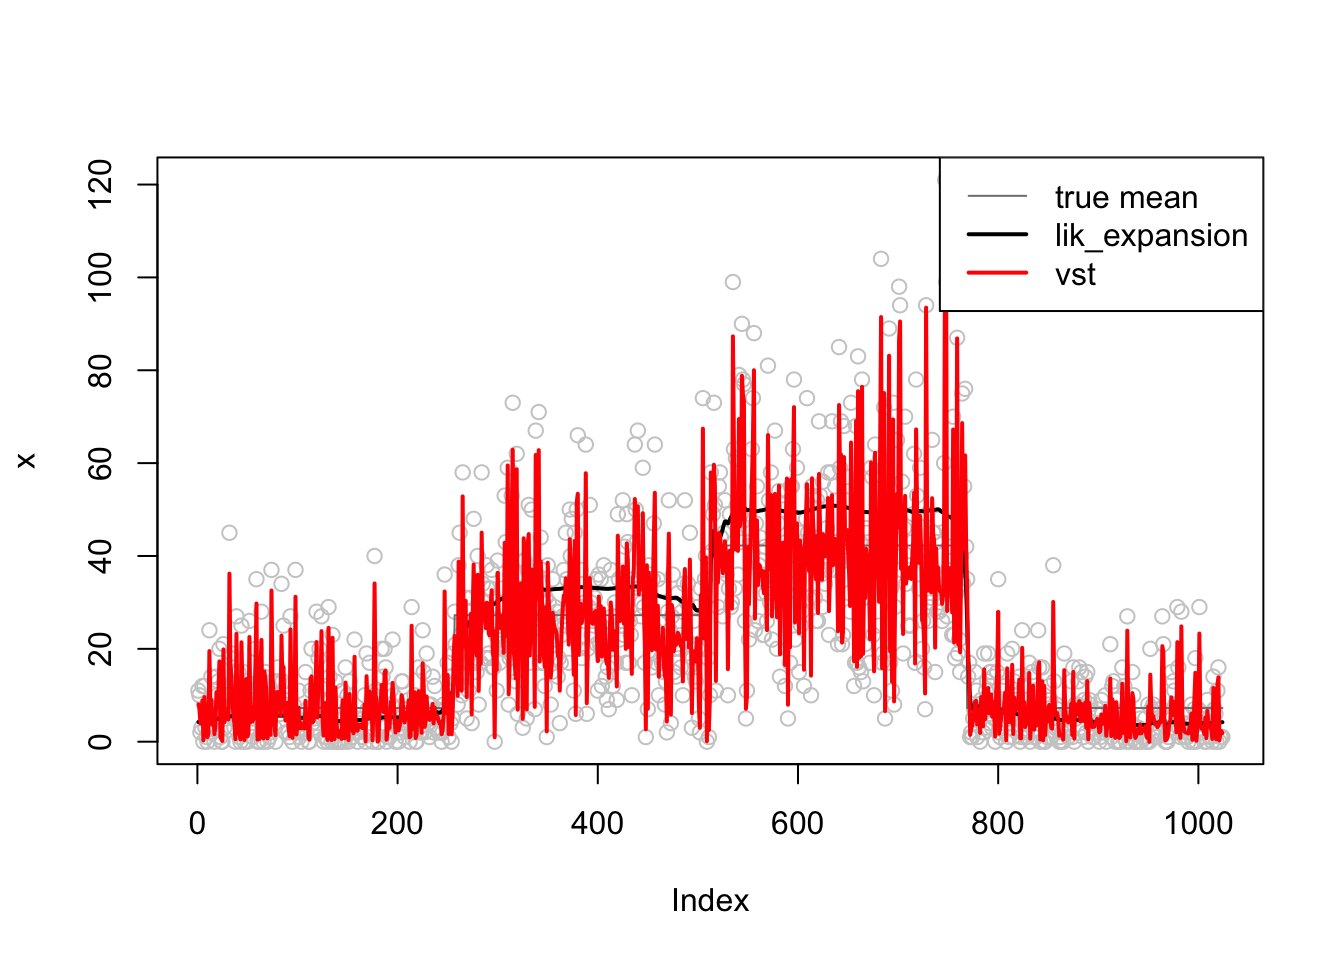
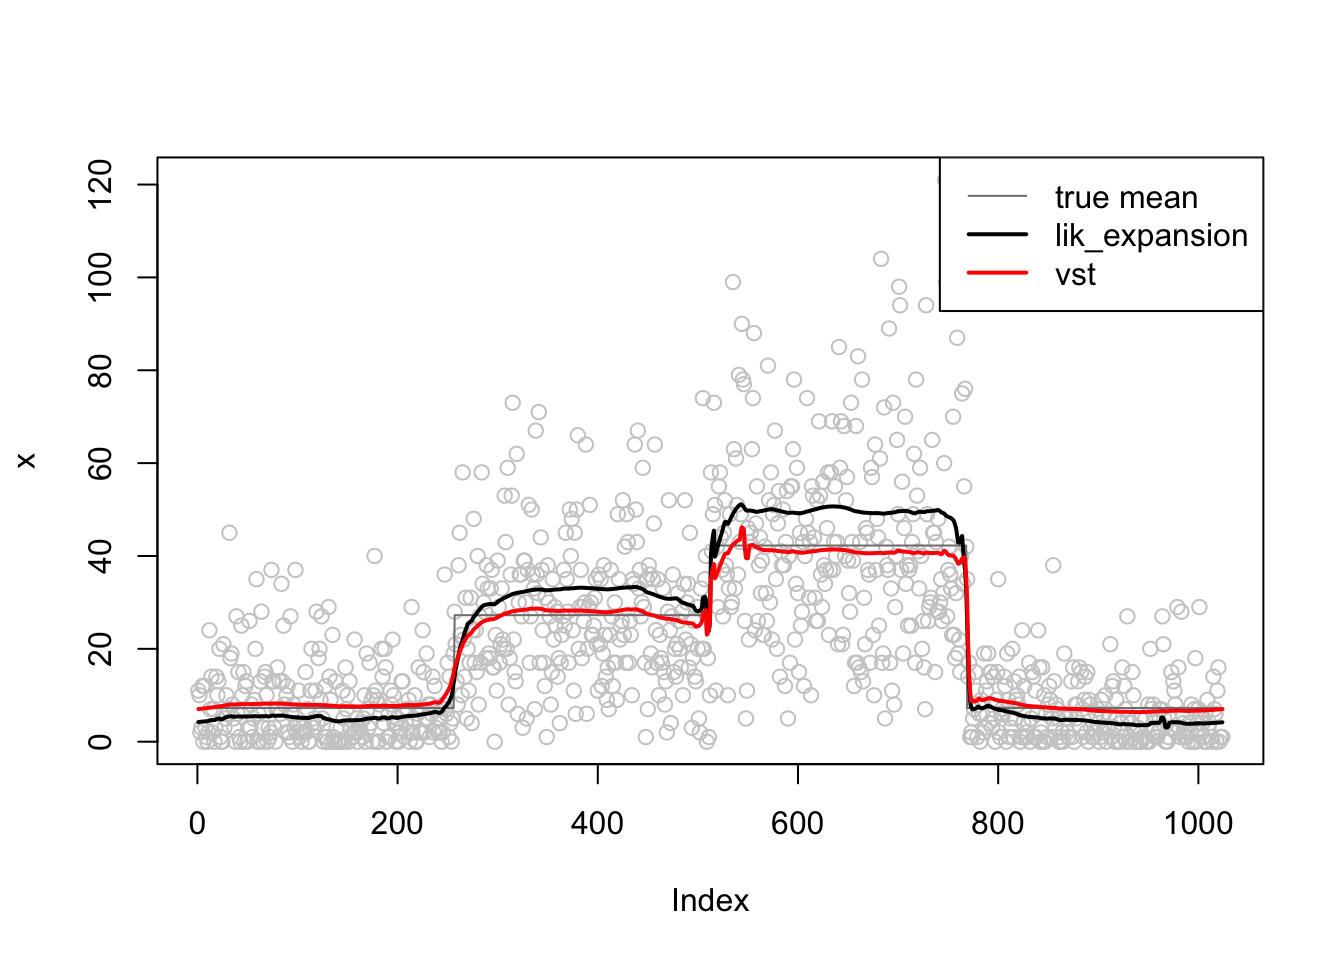
Build site.

Changed region(s): [[0.125, 0.3125, 0.9062, 0.7812]]

diff --git a/docs/vstlikcompare.html b/docs/vstlikcompare.html
@@ -496,10 +496,10 @@ This reproducible <a href="http://rmarkdown.rstudio.com">R Markdown</a> analysis
 <div class="panel panel-default">
 <div class="panel-heading">
 <p class="panel-title">
-<a data-toggle="collapse" data-parent="#workflowr-checks" href="#strongRepositoryversionstrongahrefhttpsgithubcomDongyueXiesmashgentree4b80ff5cdaa2fb20698c79cad4027dc802fa6c94targetblank4b80ff5a"> <span class="glyphicon glyphicon-ok text-success" aria-hidden="true"></span> <strong>Repository version:</strong> <a href="https://github.com/DongyueXie/smash-gen/tree/4b80ff5cdaa2fb20698c79cad4027dc802fa6c94" target="_blank">4b80ff5</a> </a>
+<a data-toggle="collapse" data-parent="#workflowr-checks" href="#strongRepositoryversionstrongahrefhttpsgithubcomDongyueXiesmashgentree419cb5de1e4e8c4bf174cf5ccdb47a82b5ceb030targetblank419cb5da"> <span class="glyphicon glyphicon-ok text-success" aria-hidden="true"></span> <strong>Repository version:</strong> <a href="https://github.com/DongyueXie/smash-gen/tree/419cb5de1e4e8c4bf174cf5ccdb47a82b5ceb030" target="_blank">419cb5d</a> </a>
 </p>
 </div>
[2 lines of base64/hex data omitted]
 <div class="panel-body">
 <p>
 Great! You are using Git for version control. Tracking code development and connecting the code version to the results is critical for reproducibility. The version displayed above was the version of the Git repository at the time these results were generated. <br><br> Note that you need to be careful to ensure that all relevant files for the analysis have been committed to Git prior to generating the results (you can use <code>wflow_publish</code> or <code>wflow_git_commit</code>). workflowr only checks the R Markdown file, but you know if there are other scripts or data files that it depends on. Below is the status of the Git repository when the results were generated:
@@ -572,6 +572,40 @@ Message
 Rmd
 </td>
 <td>
+<a href="https://github.com/DongyueXie/smash-gen/blob/419cb5de1e4e8c4bf174cf5ccdb47a82b5ceb030/analysis/vstlikcompare.Rmd" target="_blank">419cb5d</a>
+</td>
+<td>
+Dongyue Xie
+</td>
+<td>
+2020-09-08
+</td>
+<td>
+wflow_publish(“analysis/vstlikcompare.Rmd”)
+</td>
+</tr>
+<tr>
+<td>
+html
+</td>
+<td>
+<a href="https://rawcdn.githack.com/DongyueXie/smash-gen/8627a119e12a7c3e08123f85906bdd867128637a/docs/vstlikcompare.html" target="_blank">8627a11</a>
+</td>
+<td>
+Dongyue Xie
+</td>
+<td>
+2020-09-08
+</td>
+<td>
+Build site.
+</td>
+</tr>
+<tr>
+<td>
+Rmd
+</td>
+<td>
 <a href="https://github.com/DongyueXie/smash-gen/blob/4b80ff5cdaa2fb20698c79cad4027dc802fa6c94/analysis/vstlikcompare.Rmd" target="_blank">4b80ff5</a>
 </td>
 <td>
@@ -613,7 +647,7 @@ m=c(rep(1,n/4), rep(5, n/4), rep(10, n/4), rep(1, n/4))
 lamda=exp(log(m)+rnorm(length(m),0,sigma))
 x=rpois(length(m),lamda)
 fit = smash.gen.poiss(x,transformation = &#39;lik_expansion&#39;,method = &#39;smash&#39;,ash.pm = TRUE)
-fit2 = smash.gen.poiss(x,transformation = &#39;vst&#39;,method = &#39;smash&#39;,ash.pm = TRUE)
+fit2 = smash.gen.poiss(x,transformation = &#39;vst&#39;,method = &#39;smash&#39;)
 plot(x,col=&#39;grey80&#39;)
 lines(m+sigma^2/2,col=&#39;grey50&#39;)
 lines(fit$lambda.est,col=1,lwd=2)
@@ -621,6 +655,43 @@ lines(fit2$lambda.est,col=2,lwd=2)
 lines(smash.poiss(x),col=4)
 legend(&#39;topright&#39;,c(&quot;true mean&quot;,&quot;lik_expansion&quot;,&quot;vst&quot;,&quot;smash&quot;),lty=c(1,1,1,1),lwd=c(1,2,2,1),col=c(&#39;grey50&#39;,1,2,4))</code></pre>
 <p><img src="figure/vstlikcompare.Rmd/unnamed-chunk-2-1.png" width="672" style="display: block; margin: auto;" /></p>
+<p>
+<button type="button" class="btn btn-default btn-xs btn-workflowr btn-workflowr-fig" data-toggle="collapse" data-target="#fig-unnamed-chunk-2-1">
+Past versions of unnamed-chunk-2-1.png
+</button>
+</p>
+<div id="fig-unnamed-chunk-2-1" class="collapse">
+<div class="table-responsive">
+<table class="table table-condensed table-hover">
+<thead>
+<tr>
+<th>
+Version
+</th>
+<th>
+Author
+</th>
+<th>
+Date
+</th>
+</tr>
+</thead>
+<tbody>
+<tr>
+<td>
+<a href="https://github.com/DongyueXie/smash-gen/blob/8627a119e12a7c3e08123f85906bdd867128637a/docs/figure/vstlikcompare.Rmd/unnamed-chunk-2-1.png" target="_blank">8627a11</a>
+</td>
+<td>
+Dongyue Xie
+</td>
+<td>
+2020-09-08
+</td>
+</tr>
+</tbody>
+</table>
+</div>
+</div>
 <pre class="r"><code>fit$nugget.est</code></pre>
 <pre><code>[1] 0.03152095</code></pre>
 <pre class="r"><code>fit2$nugget.est</code></pre>
@@ -640,6 +711,43 @@ lines(fit2$lambda.est,col=2,lwd=2)
 #lines(smash.poiss(x),col=4)
 legend(&#39;topright&#39;,c(&quot;true mean&quot;,&quot;lik_expansion&quot;,&quot;vst&quot;),lty=c(1,1,1),lwd=c(1,2,2),col=c(&#39;grey50&#39;,1,2))</code></pre>
 <p><img src="figure/vstlikcompare.Rmd/unnamed-chunk-3-1.png" width="672" style="display: block; margin: auto;" /></p>
+<p>
+<button type="button" class="btn btn-default btn-xs btn-workflowr btn-workflowr-fig" data-toggle="collapse" data-target="#fig-unnamed-chunk-3-1">
+Past versions of unnamed-chunk-3-1.png
+</button>
+</p>
+<div id="fig-unnamed-chunk-3-1" class="collapse">
+<div class="table-responsive">
+<table class="table table-condensed table-hover">
+<thead>
+<tr>
+<th>
+Version
+</th>
+<th>
+Author
+</th>
+<th>
+Date
+</th>
+</tr>
+</thead>
+<tbody>
+<tr>
+<td>
+<a href="https://github.com/DongyueXie/smash-gen/blob/8627a119e12a7c3e08123f85906bdd867128637a/docs/figure/vstlikcompare.Rmd/unnamed-chunk-3-1.png" target="_blank">8627a11</a>
+</td>
+<td>
+Dongyue Xie
+</td>
+<td>
+2020-09-08
+</td>
+</tr>
+</tbody>
+</table>
+</div>
+</div>
 <pre class="r"><code>fit$nugget.est</code></pre>
 <pre><code>[1] 0.2953471</code></pre>
 <pre class="r"><code>fit2$nugget.est</code></pre>
@@ -659,6 +767,43 @@ lines(fit2$lambda.est,col=2,lwd=2)
 #lines(smash.poiss(x),col=4)
 legend(&#39;topright&#39;,c(&quot;true mean&quot;,&quot;lik_expansion&quot;,&quot;vst&quot;),lty=c(1,1,1),lwd=c(1,2,2),col=c(&#39;grey50&#39;,1,2))</code></pre>
 <p><img src="figure/vstlikcompare.Rmd/unnamed-chunk-4-1.png" width="672" style="display: block; margin: auto;" /></p>
+<p>
+<button type="button" class="btn btn-default btn-xs btn-workflowr btn-workflowr-fig" data-toggle="collapse" data-target="#fig-unnamed-chunk-4-1">
+Past versions of unnamed-chunk-4-1.png
+</button>
+</p>
+<div id="fig-unnamed-chunk-4-1" class="collapse">
+<div class="table-responsive">
+<table class="table table-condensed table-hover">
+<thead>
+<tr>
+<th>
+Version
+</th>
+<th>
+Author
+</th>
+<th>
+Date
+</th>
+</tr>
+</thead>
+<tbody>
+<tr>
+<td>
+<a href="https://github.com/DongyueXie/smash-gen/blob/8627a119e12a7c3e08123f85906bdd867128637a/docs/figure/vstlikcompare.Rmd/unnamed-chunk-4-1.png" target="_blank">8627a11</a>
+</td>
+<td>
+Dongyue Xie
+</td>
+<td>
+2020-09-08
+</td>
+</tr>
+</tbody>
+</table>
+</div>
+</div>
 <pre class="r"><code>fit$nugget.est</code></pre>
 <pre><code>[1] 0.2379032</code></pre>
 <pre class="r"><code>fit2$nugget.est</code></pre>
@@ -672,7 +817,7 @@ n = 1024
 m=c(rep(1,n/4), rep(5, n/4), rep(8, n/4), rep(1, n/4))
 lamda=(sqrt(m)+rnorm(length(m),0,sigma))^2
 x=rpois(length(m),lamda)
-fit = smash.gen.poiss(x,transformation = &#39;lik_expansion&#39;,method = &#39;smash&#39;,ash.pm = TRUE,nug.init = 0)
+fit = smash.gen.poiss(x,transformation = &#39;lik_expansion&#39;,method = &#39;smash&#39;,ash.pm = TRUE,nug.init = NULL)
 fit2 = smash.gen.poiss(x,transformation = &#39;vst&#39;,method = &#39;smash&#39;,ash.pm = TRUE)
 plot(x,col=&#39;grey80&#39;)
 lines(m+sigma^2,col=&#39;grey50&#39;)
@@ -681,8 +826,45 @@ lines(fit2$lambda.est,col=2,lwd=2)
 #lines(smash.poiss(x),col=4)
 legend(&#39;topright&#39;,c(&quot;true mean&quot;,&quot;lik_expansion&quot;,&quot;vst&quot;),lty=c(1,1,1),lwd=c(1,2,2),col=c(&#39;grey50&#39;,1,2))</code></pre>
 <p><img src="figure/vstlikcompare.Rmd/unnamed-chunk-5-1.png" width="672" style="display: block; margin: auto;" /></p>
+<p>
+<button type="button" class="btn btn-default btn-xs btn-workflowr btn-workflowr-fig" data-toggle="collapse" data-target="#fig-unnamed-chunk-5-1">
+Past versions of unnamed-chunk-5-1.png
+</button>
+</p>
+<div id="fig-unnamed-chunk-5-1" class="collapse">
+<div class="table-responsive">
+<table class="table table-condensed table-hover">
+<thead>
+<tr>
+<th>
+Version
+</th>
+<th>
+Author
+</th>
+<th>
+Date
+</th>
+</tr>
+</thead>
+<tbody>
+<tr>
+<td>
+<a href="https://github.com/DongyueXie/smash-gen/blob/8627a119e12a7c3e08123f85906bdd867128637a/docs/figure/vstlikcompare.Rmd/unnamed-chunk-5-1.png" target="_blank">8627a11</a>
+</td>
+<td>
+Dongyue Xie
+</td>
+<td>
+2020-09-08
+</td>
+</tr>
+</tbody>
+</table>
+</div>
+</div>
 <pre class="r"><code>fit$nugget.est</code></pre>
-<pre><code>[1] 0.345492</code></pre>
+<pre><code>[1] 0.3455515</code></pre>
 <pre class="r"><code>fit2$nugget.est</code></pre>
 <pre><code>[1] 0.2666205</code></pre>
 <pre class="r"><code>set.seed(12345)
@@ -691,8 +873,8 @@ n = 1024
 m=c(rep(1,n/4), rep(5, n/4), rep(8, n/4), rep(1, n/4))*5
 lamda=(sqrt(m)+rnorm(length(m),0,sigma))^2
 x=rpois(length(m),lamda)
-fit = smash.gen.poiss(x,transformation = &#39;lik_expansion&#39;,method = &#39;smash&#39;,ash.pm = TRUE,nug.init = 0)
-fit2 = smash.gen.poiss(x,transformation = &#39;vst&#39;,method = &#39;smash&#39;,nug.init = 0)
+fit = smash.gen.poiss(x,transformation = &#39;lik_expansion&#39;,method = &#39;smash&#39;,ash.pm = TRUE,nug.init = NULL)
+fit2 = smash.gen.poiss(x,transformation = &#39;vst&#39;,method = &#39;smash&#39;,nug.init = NULL)
 plot(x,col=&#39;grey80&#39;)
 lines(m+sigma^2,col=&#39;grey50&#39;)
 lines(fit$lambda.est,col=1,lwd=2)
@@ -700,10 +882,47 @@ lines(fit2$lambda.est,col=2,lwd=2)
 #lines(smash.poiss(x),col=4)
 legend(&#39;topright&#39;,c(&quot;true mean&quot;,&quot;lik_expansion&quot;,&quot;vst&quot;),lty=c(1,1,1),lwd=c(1,2,2),col=c(&#39;grey50&#39;,1,2))</code></pre>
 <p><img src="figure/vstlikcompare.Rmd/unnamed-chunk-6-1.png" width="672" style="display: block; margin: auto;" /></p>
+<p>
+<button type="button" class="btn btn-default btn-xs btn-workflowr btn-workflowr-fig" data-toggle="collapse" data-target="#fig-unnamed-chunk-6-1">
+Past versions of unnamed-chunk-6-1.png
+</button>
+</p>
+<div id="fig-unnamed-chunk-6-1" class="collapse">
+<div class="table-responsive">
+<table class="table table-condensed table-hover">
+<thead>
+<tr>
+<th>
+Version
+</th>
+<th>
+Author
+</th>
+<th>
+Date
+</th>
+</tr>
+</thead>
+<tbody>
+<tr>
+<td>
+<a href="https://github.com/DongyueXie/smash-gen/blob/8627a119e12a7c3e08123f85906bdd867128637a/docs/figure/vstlikcompare.Rmd/unnamed-chunk-6-1.png" target="_blank">8627a11</a>
+</td>
+<td>
+Dongyue Xie
+</td>
+<td>
+2020-09-08
+</td>
+</tr>
+</tbody>
+</table>
+</div>
+</div>
 <pre class="r"><code>fit$nugget.est</code></pre>
-<pre><code>[1] 0.6818963</code></pre>
+<pre><code>[1] 0.6753289</code></pre>
 <pre class="r"><code>fit2$nugget.est</code></pre>
-<pre><code>[1] 0.09623953</code></pre>
+<pre><code>[1] 1.931957</code></pre>
 <br>
 <p>
 <button type="button" class="btn btn-default btn-workflowr btn-workflowr-sessioninfo" data-toggle="collapse" data-target="#workflowr-sessioninfo" style="display: block;">
